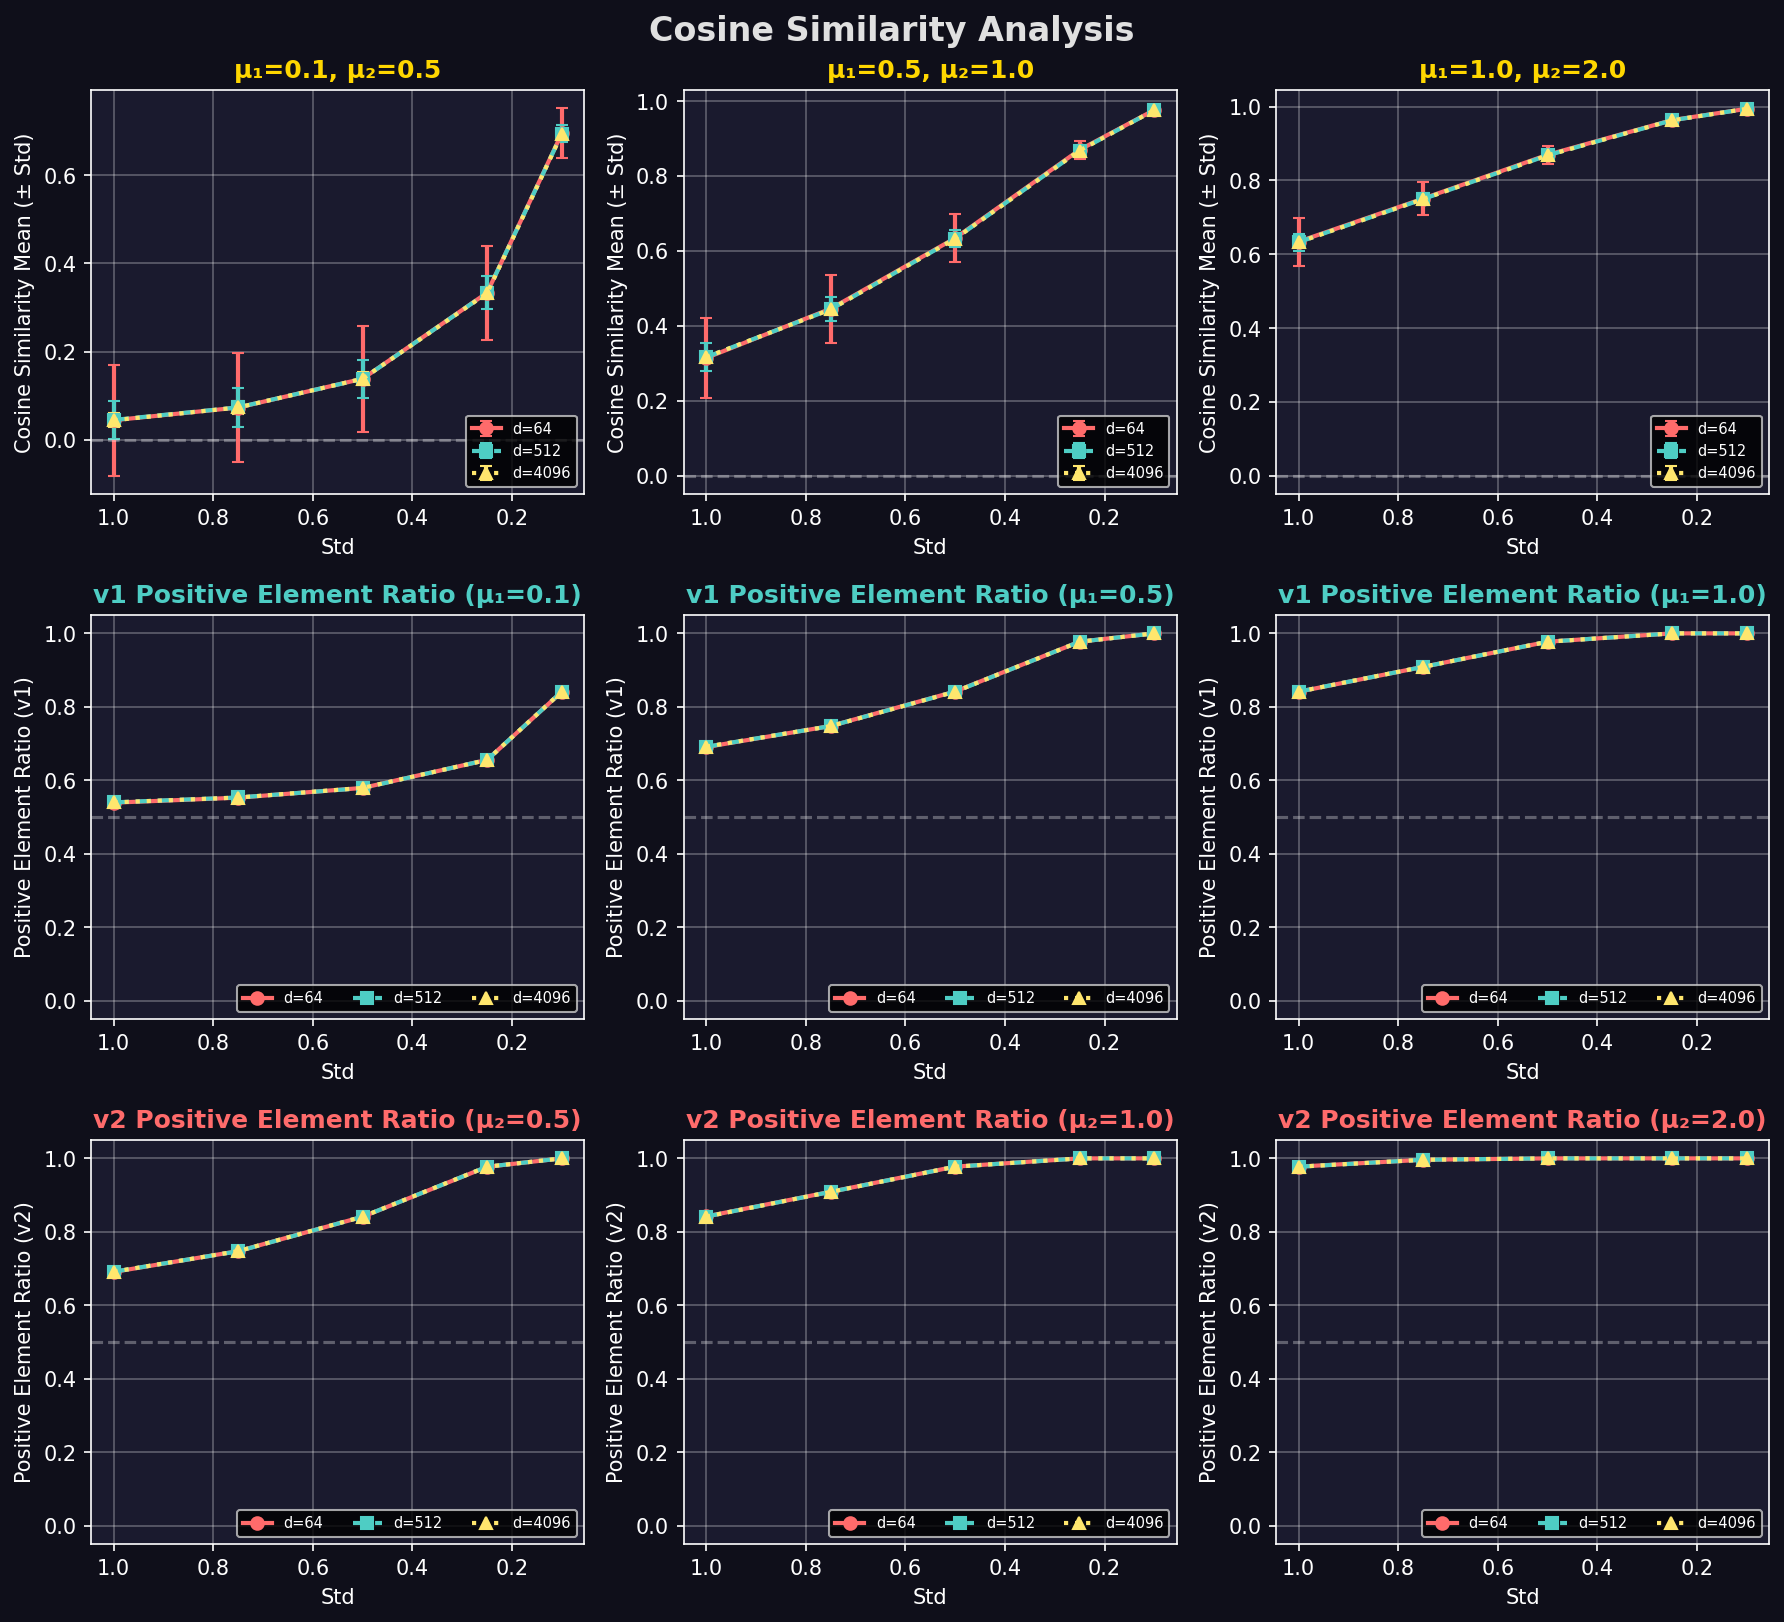
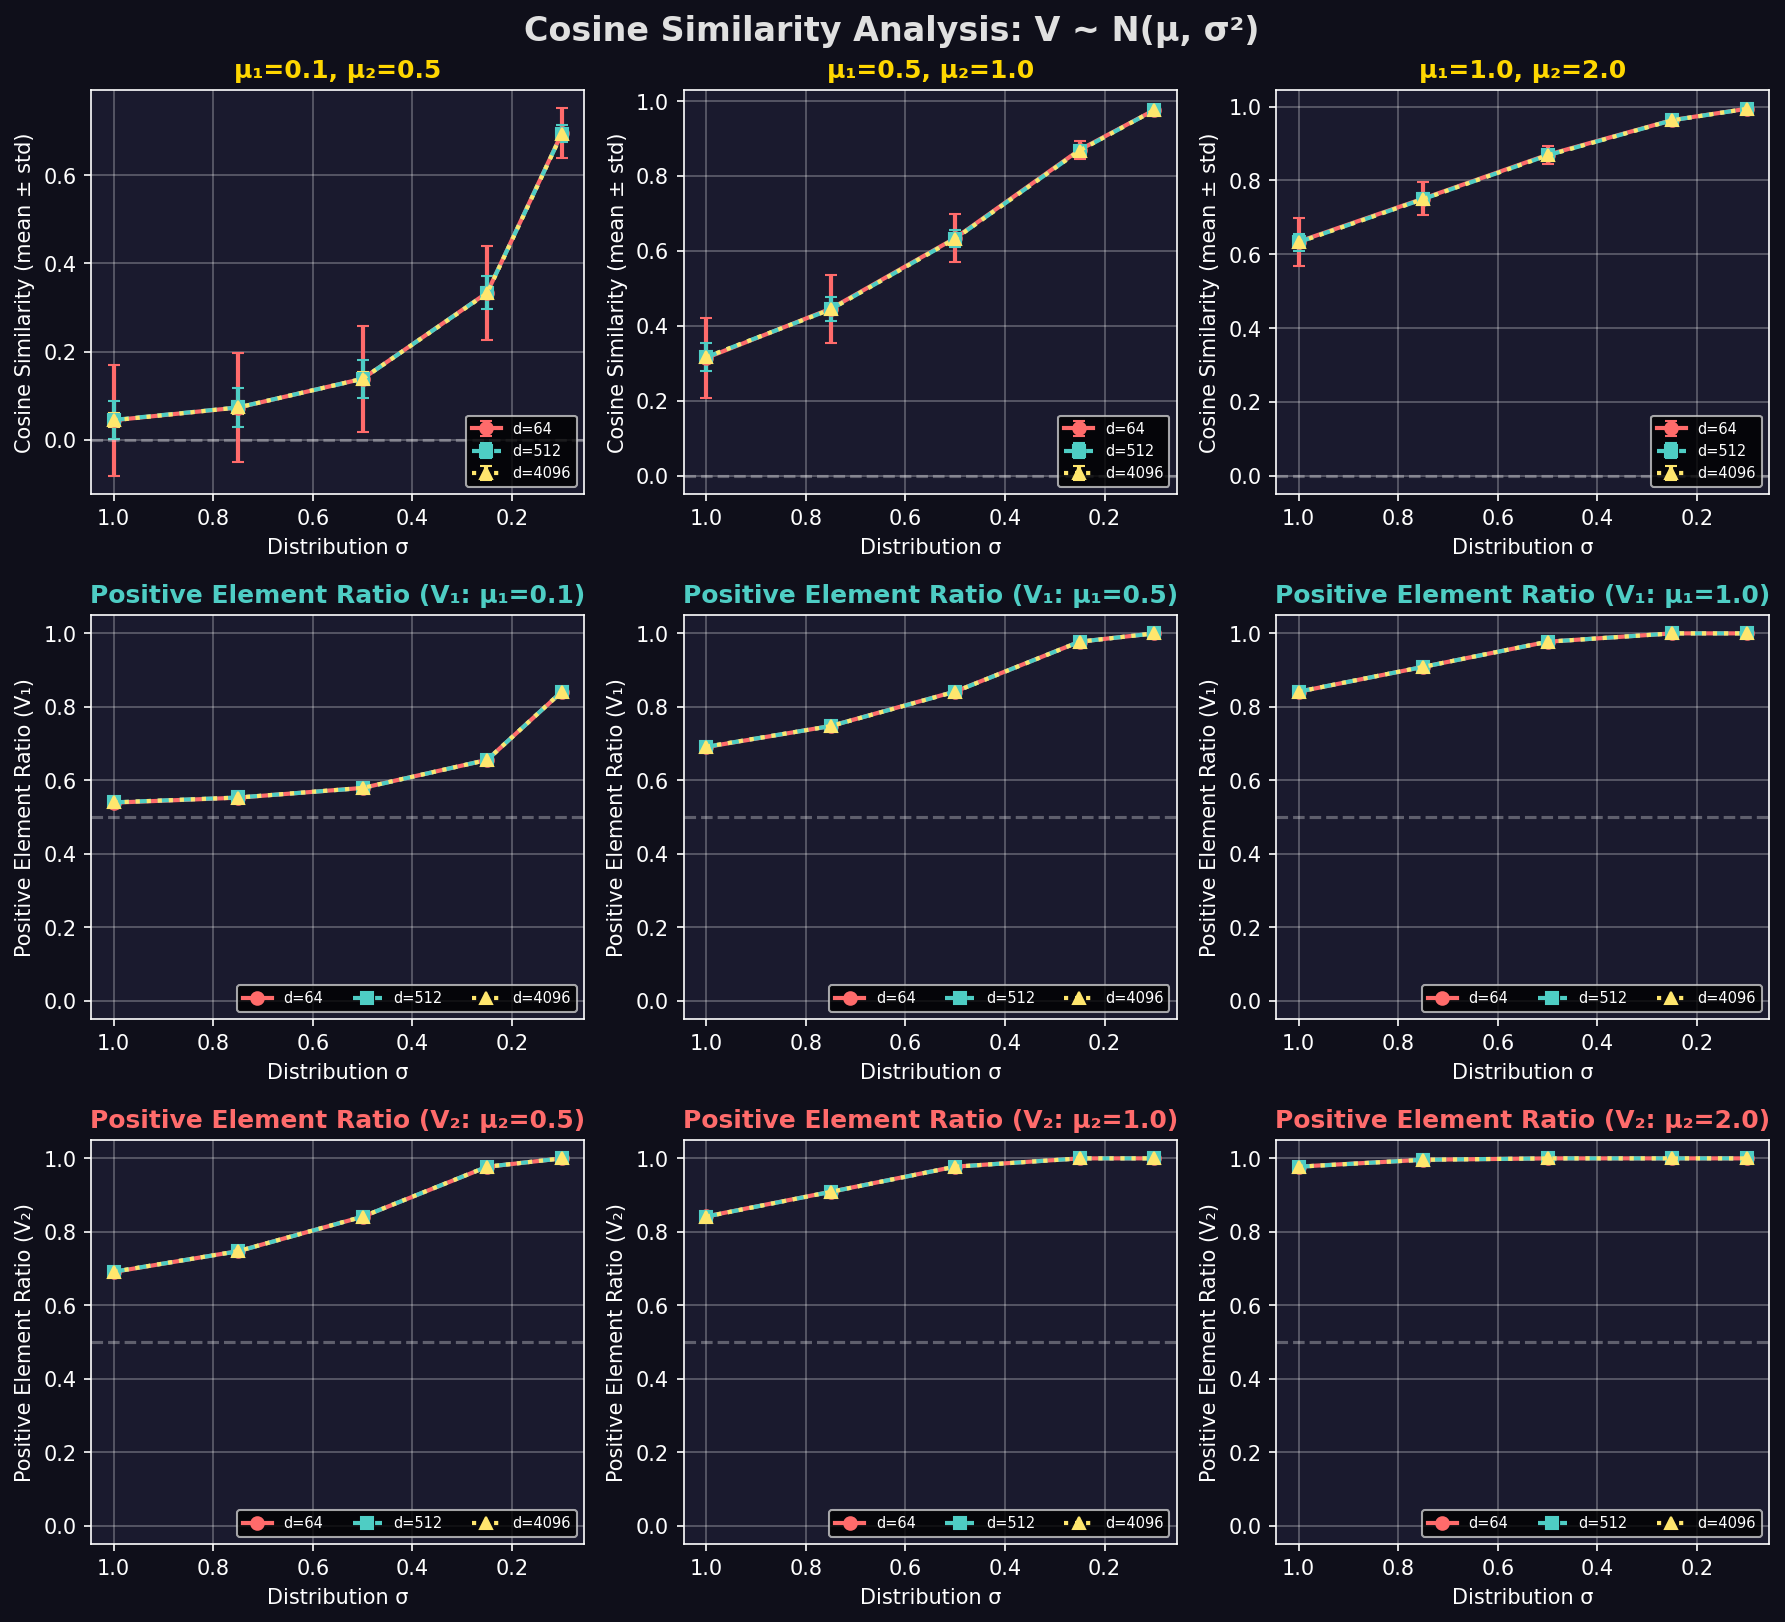
fix notations

diff --git a/viz_cossim.py b/viz_cossim.py
@@ -72,7 +72,7 @@ def main():
     n_pairs = len(mean_pairs)
     fig, axes = plt.subplots(3, n_pairs, figsize=(4 * n_pairs, 11))
     fig.suptitle(
-        "Cosine Similarity Analysis",
+        "Cosine Similarity Analysis: V ~ N(μ, σ²)",
         fontsize=16,
         fontweight="bold",
         color="#E0E0E0",
@@ -98,8 +98,8 @@ def main():
                 markersize=6,
             )
 
-        ax.set_xlabel("Std")
-        ax.set_ylabel("Cosine Similarity Mean (± Std)")
+        ax.set_xlabel("Distribution σ")
+        ax.set_ylabel("Cosine Similarity (mean ± std)")
         ax.set_title(f"μ₁={mean1}, μ₂={mean2}", fontweight="bold", color="#FFD700")
         ax.invert_xaxis()
         ax.legend(loc="lower right", fontsize=7, ncol=1)
@@ -126,10 +126,10 @@ def main():
                 markersize=6,
             )
 
-        ax.set_xlabel("Std")
-        ax.set_ylabel("Positive Element Ratio (v1)")
+        ax.set_xlabel("Distribution σ")
+        ax.set_ylabel("Positive Element Ratio (V₁)")
         ax.set_title(
-            f"v1 Positive Element Ratio (μ₁={mean1})",
+            f"Positive Element Ratio (V₁: μ₁={mean1})",
             fontweight="bold",
             color="#4ECDC4",
         )
@@ -159,10 +159,10 @@ def main():
                 markersize=6,
             )
 
-        ax.set_xlabel("Std")
-        ax.set_ylabel("Positive Element Ratio (v2)")
+        ax.set_xlabel("Distribution σ")
+        ax.set_ylabel("Positive Element Ratio (V₂)")
         ax.set_title(
-            f"v2 Positive Element Ratio (μ₂={mean2})",
+            f"Positive Element Ratio (V₂: μ₂={mean2})",
             fontweight="bold",
             color="#FF6B6B",
         )
